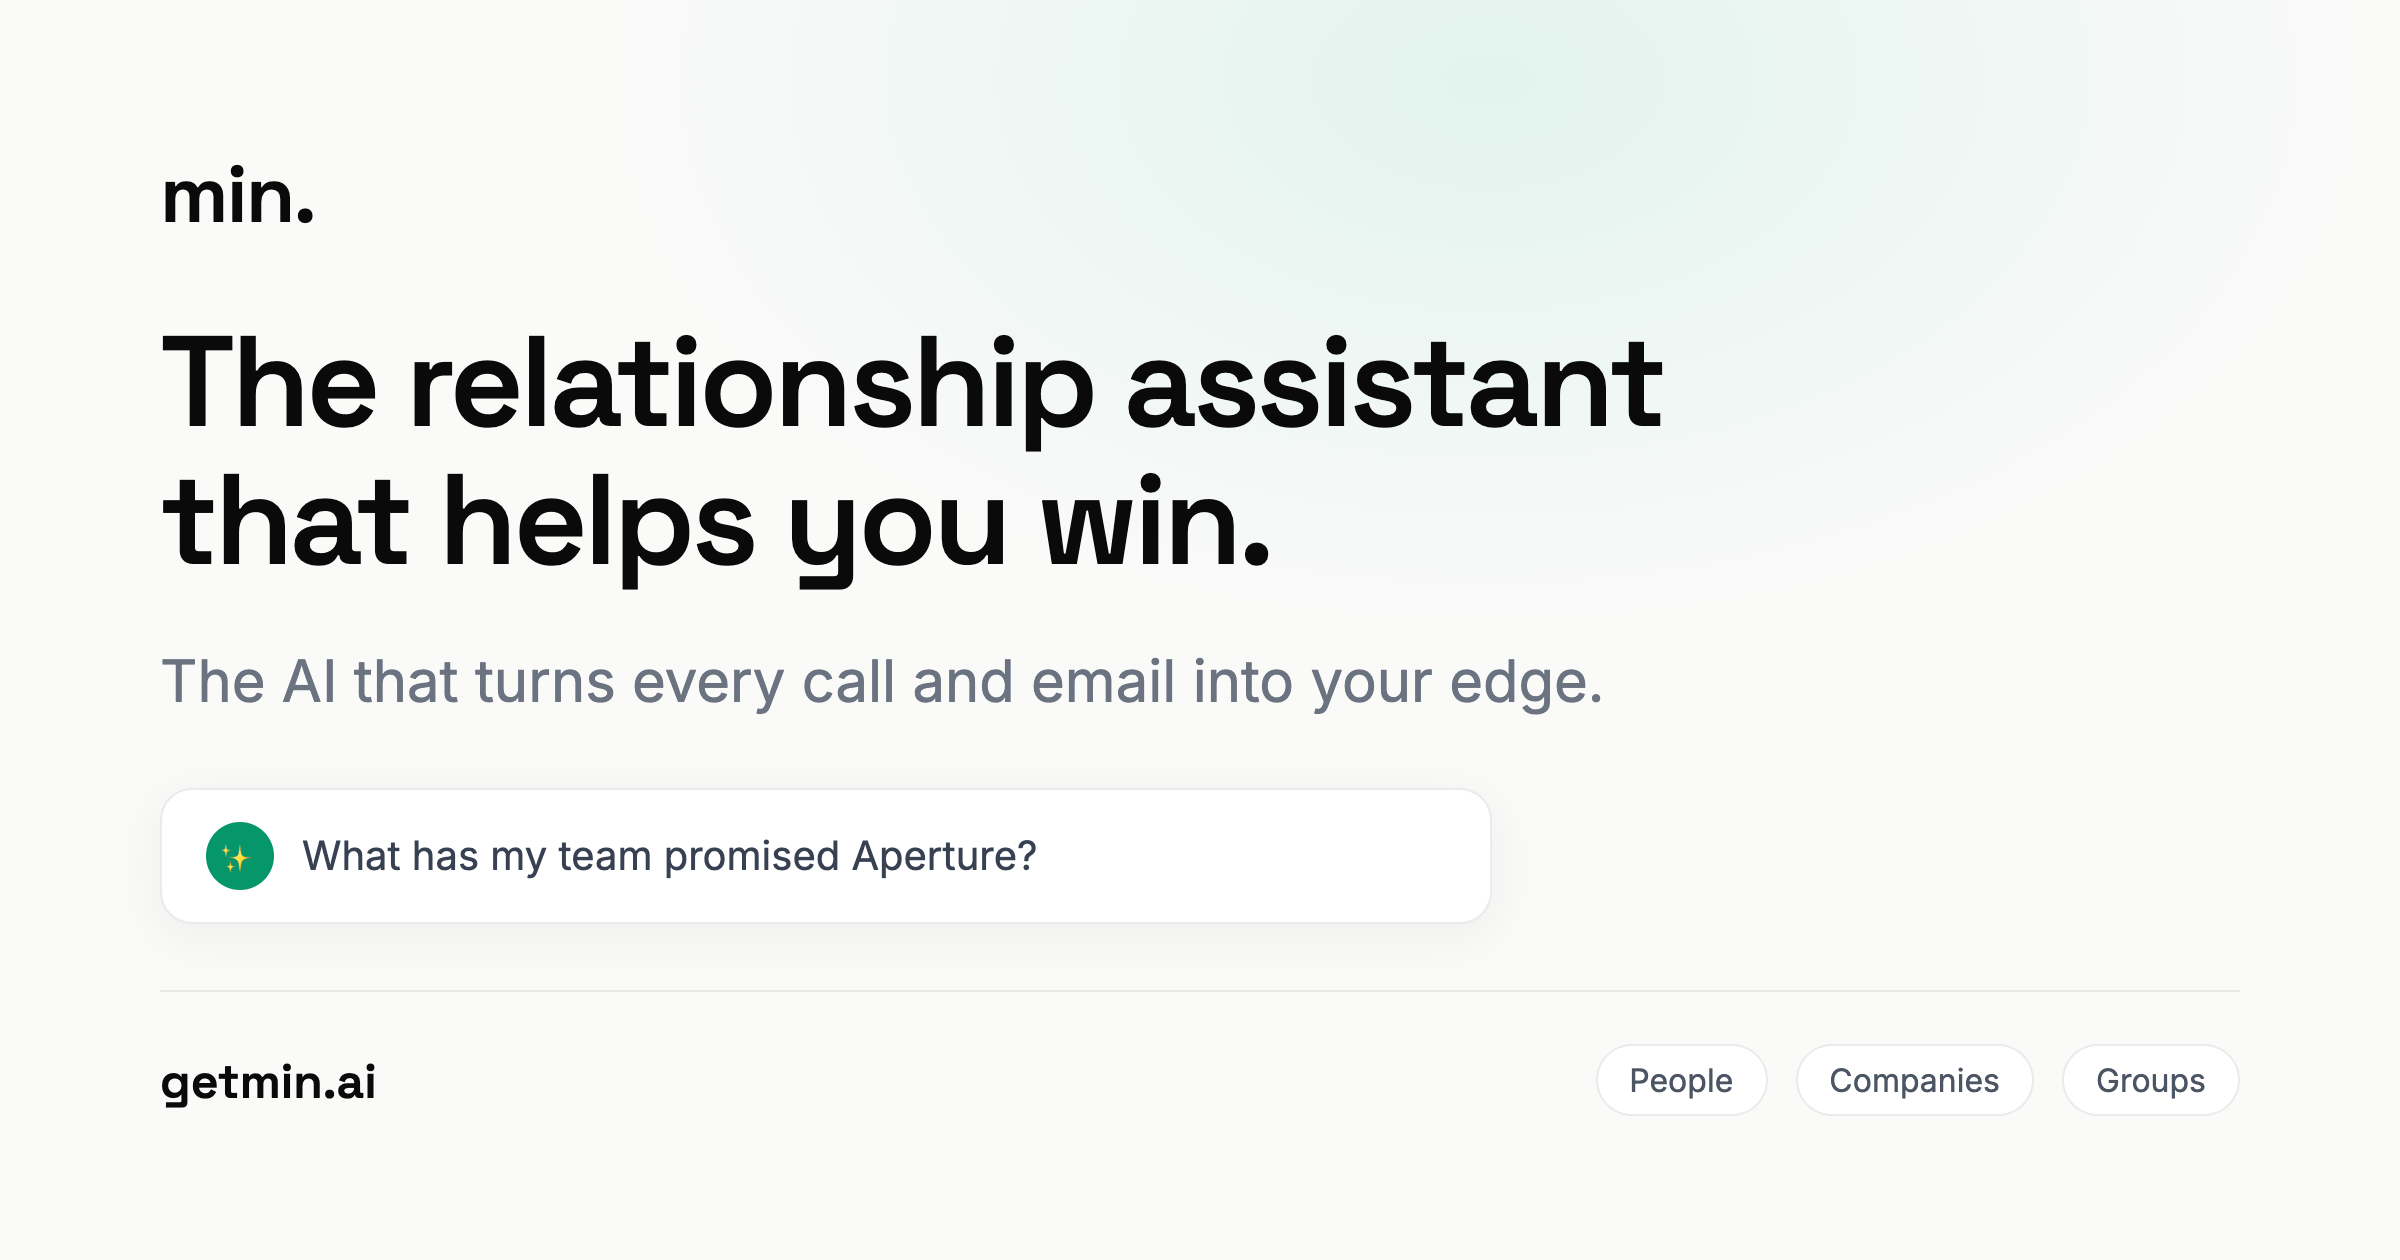
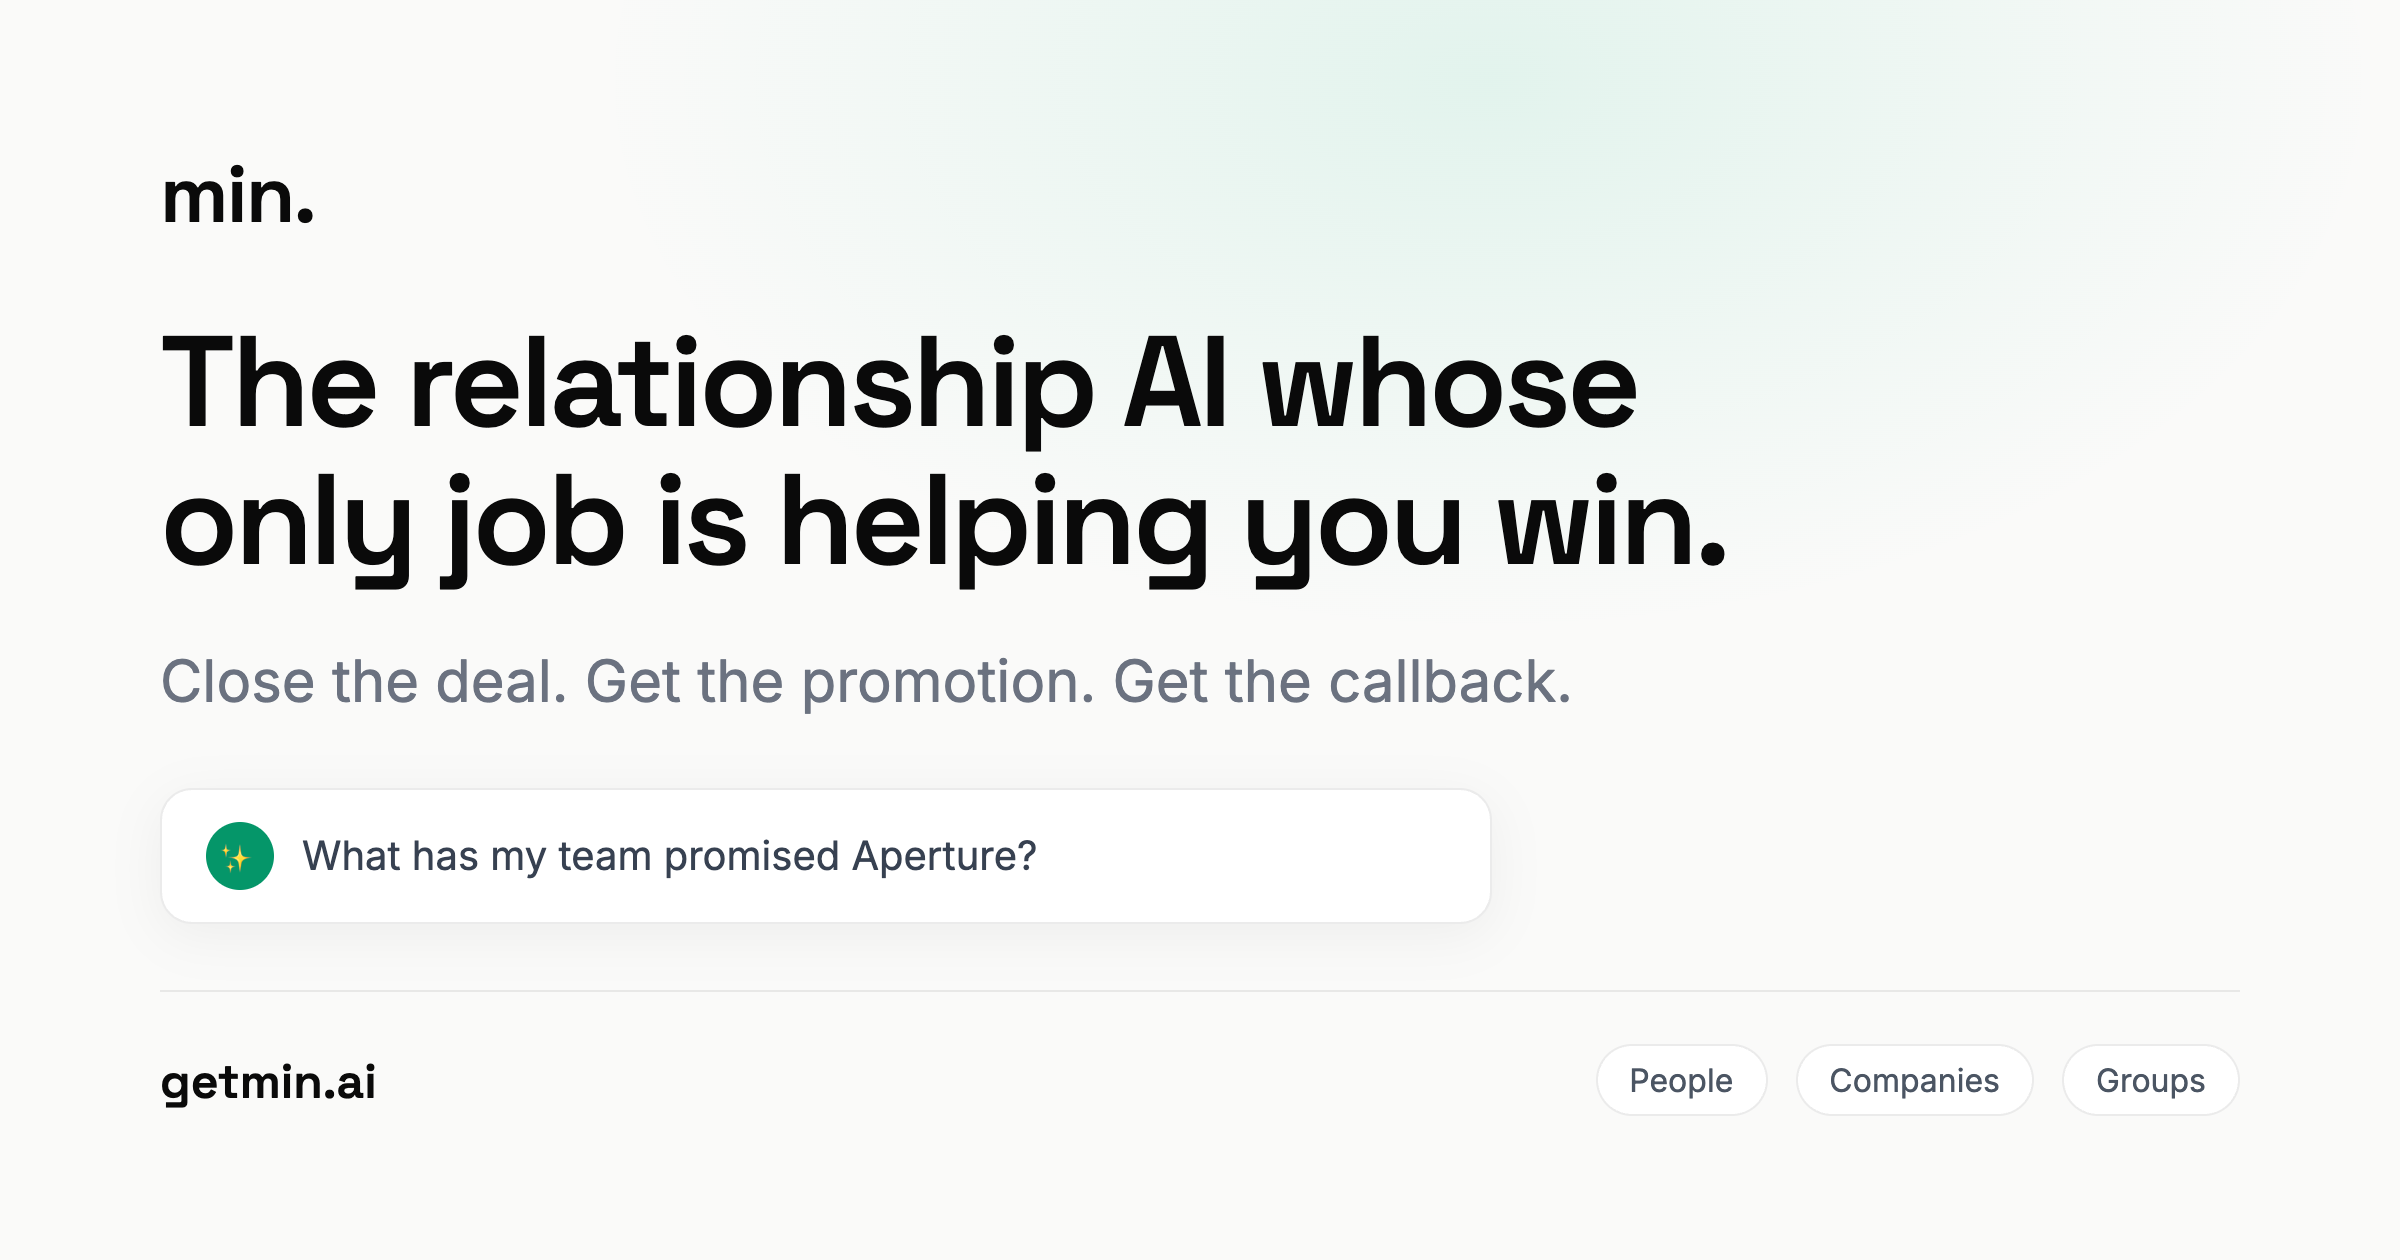
Hero: the relationship AI whose only job is helping you win
Tightened from "whose only mission is" — job is one syllable, concrete
instead of mission-statement, and it implies an AI that does work. The
"only" claim moves into the H1 where it is strongest, so the closing
pill stops repeating it and carries a fact instead: "Free to use for
your whole team," the last objection before the download button.

Cascaded: title, meta, OG/Twitter (title, description, image alt),
JSON-LD slogan and app description, About/Contact/Careers metas, footer
tagline, crawler mirror, llms.txt, and a re-rendered OG card. Two spots
said "AI" twice once the H1 led with it, so the hero sub now reads "It
turns every call and email into your edge" and the OG card sub carries
the outcome triplet. Added "relationship AI" to the keywords meta.

Changed region(s): [[0.0625, 0.3714, 0.7188, 0.4643], [0.0625, 0.5262, 0.6562, 0.5571], [0.4688, 0.2476, 0.6875, 0.3405]]

diff --git a/index.html b/index.html
@@ -4,32 +4,32 @@
   <head>
     <meta charset="UTF-8" />
     <meta name="viewport" content="width=device-width, initial-scale=1.0" />
-    <title>The relationship assistant that helps you win | min.</title>
+    <title>The relationship AI whose only job is helping you win | min.</title>
     <!-- Primary Meta Tags -->
-    <meta name="title" content="The relationship assistant that helps you win | min." />
-    <meta name="description" content="The relationship assistant that helps you win. The AI that turns every call and email into your edge. Free for your whole team." />
-    <meta name="keywords" content="relationship assistant, relationship memory, relationship context layer, memory layer for CRM, relationship capsule, CRM alternative, calendar and email assistant, meeting prep, follow up reminders, relationship management" />
+    <meta name="title" content="The relationship AI whose only job is helping you win | min." />
+    <meta name="description" content="The relationship AI whose only job is helping you win. Close the deal. Get the promotion. Get the callback. Free for your whole team." />
+    <meta name="keywords" content="relationship AI, relationship assistant, relationship memory, relationship context layer, memory layer for CRM, relationship capsule, CRM alternative, calendar and email assistant, meeting prep, follow up reminders, relationship management" />
     <meta name="author" content="min." />
 
     <!-- Open Graph / Facebook -->
     <meta property="og:type" content="website" />
     <meta property="og:url" content="https://getmin.ai/" />
-    <meta property="og:title" content="The relationship assistant that helps you win | min." />
-    <meta property="og:description" content="The relationship assistant that helps you win. The AI that turns every call and email into your edge. Free for your whole team." />
+    <meta property="og:title" content="The relationship AI whose only job is helping you win | min." />
+    <meta property="og:description" content="The relationship AI whose only job is helping you win. Close the deal. Get the promotion. Get the callback. Free for your whole team." />
     <meta property="og:image" content="https://getmin.ai/og-cover.png" />
     <meta property="og:image:width" content="2400" />
     <meta property="og:image:height" content="1260" />
-    <meta property="og:image:alt" content="min. — the relationship assistant that helps you win" />
+    <meta property="og:image:alt" content="min. — the relationship AI whose only job is helping you win" />
     <meta property="og:site_name" content="min." />
     <meta property="og:locale" content="en_US" />
 
     <!-- Twitter -->
     <meta name="twitter:card" content="summary_large_image" />
     <meta name="twitter:url" content="https://getmin.ai/" />
-    <meta name="twitter:title" content="The relationship assistant that helps you win | min." />
-    <meta name="twitter:description" content="The relationship assistant that helps you win. The AI that turns every call and email into your edge. Free for your whole team." />
+    <meta name="twitter:title" content="The relationship AI whose only job is helping you win | min." />
+    <meta name="twitter:description" content="The relationship AI whose only job is helping you win. Close the deal. Get the promotion. Get the callback. Free for your whole team." />
     <meta name="twitter:image" content="https://getmin.ai/og-cover.png" />
-    <meta name="twitter:image:alt" content="min. — the relationship assistant that helps you win" />
+    <meta name="twitter:image:alt" content="min. — the relationship AI whose only job is helping you win" />
     <meta name="twitter:creator" content="@getminai" />
     <meta name="twitter:site" content="@getminai" />
     
@@ -57,7 +57,7 @@
           "name": "min.",
           "url": "https://getmin.ai",
           "logo": "https://getmin.ai/favicon.png",
-          "slogan": "The only relationship assistant that's built to help you win.",
+          "slogan": "The relationship AI whose only job is helping you win.",
           "email": "hello@getmin.ai",
           "sameAs": ["https://x.com/getminai"]
         },
@@ -72,7 +72,7 @@
           "@type": "SoftwareApplication",
           "@id": "https://getmin.ai/#app",
           "name": "min.",
-          "description": "The relationship assistant that helps you win. min. records meetings without a bot, reads email and calendar, and distills every relationship into a living capsule: a one page summary you can ask anything, share as one link, and paste into any doc, ticket, or CRM.",
+          "description": "The relationship AI whose only job is helping you win. min. records meetings without a bot, reads email and calendar, and distills every relationship into a living capsule: a one page summary you can ask anything, share as one link, and paste into any doc, ticket, or CRM.",
           "applicationCategory": "BusinessApplication",
           "applicationSubCategory": "Relationship Intelligence",
           "operatingSystem": "macOS, Windows",
@@ -163,10 +163,10 @@
         <style>#root > main[hidden] { display: block; }</style>
       </noscript>
       <main hidden>
-        <h1>The relationship assistant that helps you win.</h1>
+        <h1>The relationship AI whose only job is helping you win.</h1>
         <p>
-          Close the deal. Get the promotion. Get the callback. The AI that
-          turns every call and email into your edge.
+          Close the deal. Get the promotion. Get the callback. It turns
+          every call and email into your edge.
         </p>
         <p>For macOS and Windows. Google and Outlook calendars. Two minute setup.</p>
         <p>
@@ -205,7 +205,7 @@
           <li>Know where you stand. Every relationship stays distilled into a living capsule, always current: where you stand, action items with deadlines, the whole history. Open it before a call and you are prepped in a minute.</li>
           <li>Think it through, then hand it off. Consult it like a teammate who was in every room: what am I missing, how should I play this. Then let it do the work, drafting the follow up that lands on what they actually said, the next step email, the nudge on what is owed.</li>
         </ol>
-        <p>The only relationship assistant that's built to help you win.</p>
+        <p>Free to use for your whole team.</p>
         <h2>Every relationship, working for you.</h2>
         <p>
           The whole history distilled, the next move drafted, the follow up

diff --git a/src/pages/About.tsx b/src/pages/About.tsx
@@ -39,7 +39,7 @@ export default function About() {
     "@type": "AboutPage",
     name: "About min.",
     description:
-      "min. is the relationship assistant that helps you win. It turns your calls, email, and calendar into a living memory of every relationship, then puts that memory to work: the prep, the follow up, the next move.",
+      "min. is the relationship AI whose only job is helping you win. It turns your calls, email, and calendar into a living memory of every relationship, then puts that memory to work: the prep, the follow up, the next move.",
     url: "https://getmin.ai/about",
     mainEntity: {
       "@type": "Organization",
@@ -55,7 +55,7 @@ export default function About() {
   return (
     <>
       <Helmet>
-        <title>About min. | The relationship assistant that helps you win</title>
+        <title>About min. | The relationship AI whose only job is helping you win</title>
         <meta
           name="description"
           content="min. turns your calendar and email into a living memory of every relationship, person, company, and group, so the people whose work runs on relationships never have to rely on memory alone."

diff --git a/src/components/landing/FinalCTA.tsx b/src/components/landing/FinalCTA.tsx
@@ -11,9 +11,10 @@ export default function FinalCTA() {
         <div className="relative mx-auto max-w-5xl overflow-hidden rounded-[2rem] bg-zinc-950 px-6 py-14 text-center sm:px-8 md:rounded-[2.5rem] md:py-28">
           <Constellation className="opacity-40" />
           <div className="relative">
-            {/* The claim lands here, at the close, once the demos have earned it */}
+            {/* The H1 carries the claim; this carries the fact that removes
+                the last objection before the download button */}
             <p className="mx-auto mb-6 inline-flex rounded-full border border-white/15 bg-white/5 px-4 py-1.5 text-[12.5px] font-medium text-gray-300">
-              The only relationship assistant that's built to help you win.
+              Free to use for your whole team.
             </p>
             <h2 className="mx-auto mb-6 max-w-2xl font-display text-3xl font-semibold leading-[1.1] tracking-tight text-white md:text-5xl">
               Every relationship,

diff --git a/src/components/landing/LandingHero.tsx b/src/components/landing/LandingHero.tsx
@@ -15,14 +15,14 @@ export default function LandingHero() {
         <div className="text-center lg:text-left">
           <FadeIn delay={0.1}>
             <h1 className="font-display text-[2.6rem] font-semibold leading-[1.08] tracking-tight text-gray-900 sm:text-5xl md:text-6xl">
-              The relationship assistant that helps you win.
+              The relationship AI whose only job is helping you win.
             </h1>
           </FadeIn>
 
           <FadeIn delay={0.18}>
             <p className="mx-auto mt-6 max-w-xl text-[17px] leading-relaxed text-gray-500 lg:mx-0">
-              Close the deal. Get the promotion. Get the callback. The AI that
-              turns every call and email into your edge.
+              Close the deal. Get the promotion. Get the callback. It turns
+              every call and email into your edge.
             </p>
           </FadeIn>
 

diff --git a/src/pages/Careers.tsx b/src/pages/Careers.tsx
@@ -75,7 +75,7 @@ export default function Careers() {
         <title>Careers at min. | Build the assistant that helps people win</title>
         <meta
           name="description"
-          content="Help us build the relationship assistant that helps people win: a living memory of every relationship, put to work. Email hello@getmin.ai with what you've built. No traditional postings."
+          content="Help us build the relationship AI whose only job is helping people win: a living memory of every relationship, put to work. Email hello@getmin.ai with what you've built. No traditional postings."
         />
         <link rel="canonical" href="https://getmin.ai/careers" />
       </Helmet>

diff --git a/src/pages/Index.tsx b/src/pages/Index.tsx
@@ -11,10 +11,10 @@ const Index = () => {
   return (
     <>
       <Helmet>
-        <title>The relationship assistant that helps you win | min.</title>
+        <title>The relationship AI whose only job is helping you win | min.</title>
         <meta
           name="description"
-          content="The relationship assistant that helps you win. The AI that turns every call and email into your edge. Free for your whole team."
+          content="The relationship AI whose only job is helping you win. Close the deal. Get the promotion. Get the callback. Free for your whole team."
         />
         <link rel="canonical" href="https://getmin.ai" />
       </Helmet>

diff --git a/src/pages/Contact.tsx b/src/pages/Contact.tsx
@@ -66,7 +66,7 @@ export default function Contact() {
         <title>Contact min.</title>
         <meta
           name="description"
-          content="The relationship assistant that helps you win. Get in touch with min. for sales, support, partnerships, investors, press. Email hello@getmin.ai, average reply under 2 hours."
+          content="The relationship AI whose only job is helping you win. Get in touch with min. for sales, support, partnerships, investors, press. Email hello@getmin.ai, average reply under 2 hours."
         />
         <link rel="canonical" href="https://getmin.ai/contact" />
       </Helmet>

diff --git a/public/og-image.html b/public/og-image.html
@@ -148,10 +148,10 @@
             <div>
                 <div class="logo">min.</div>
                 <div class="headline">
-                    The relationship assistant<br>that helps you win.
+                    The relationship AI whose<br>only job is helping you win.
                 </div>
                 <div class="subheadline">
-                    The AI that turns every call and email into your edge.
+                    Close the deal. Get the promotion. Get the callback.
                 </div>
             </div>
 

diff --git a/src/components/MinFooter.tsx b/src/components/MinFooter.tsx
@@ -40,7 +40,7 @@ export default function MinFooter() {
               min.
             </Link>
             <p className="text-gray-500 text-sm leading-relaxed max-w-xs">
-              The relationship assistant that helps you win. min. turns
+              The relationship AI whose only job is helping you win. min. turns
               scattered calls and emails into a living memory of everyone you
               work with, then puts it to work: the prep, the follow up, the
               next move.
